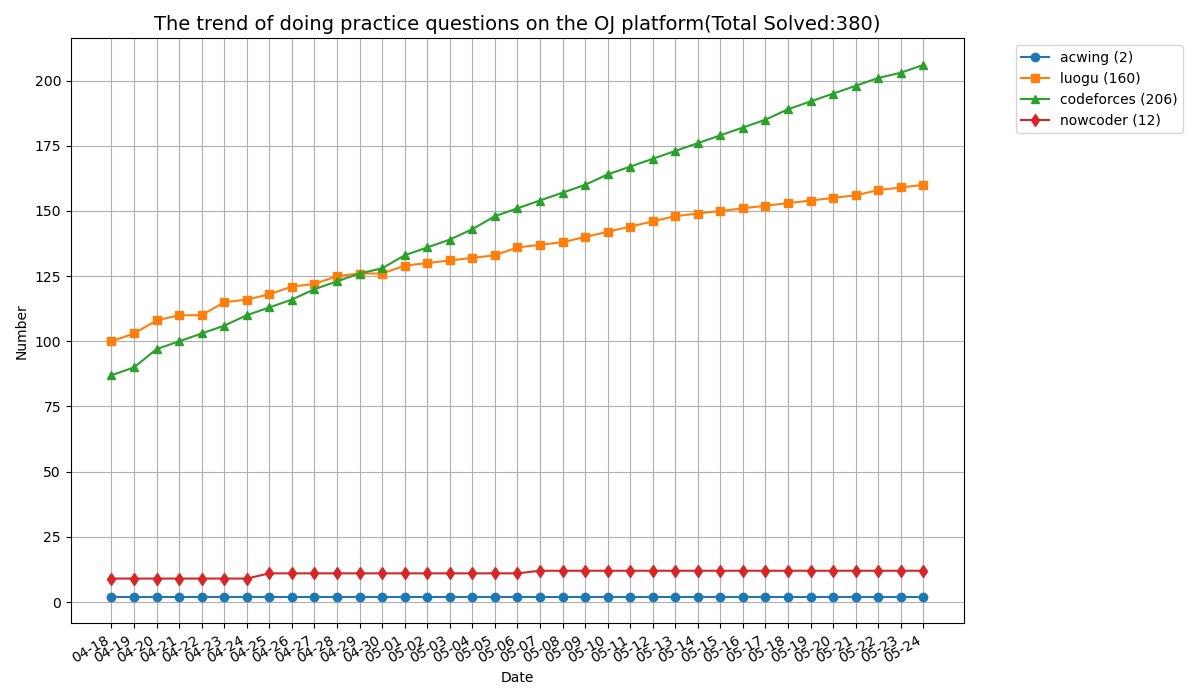
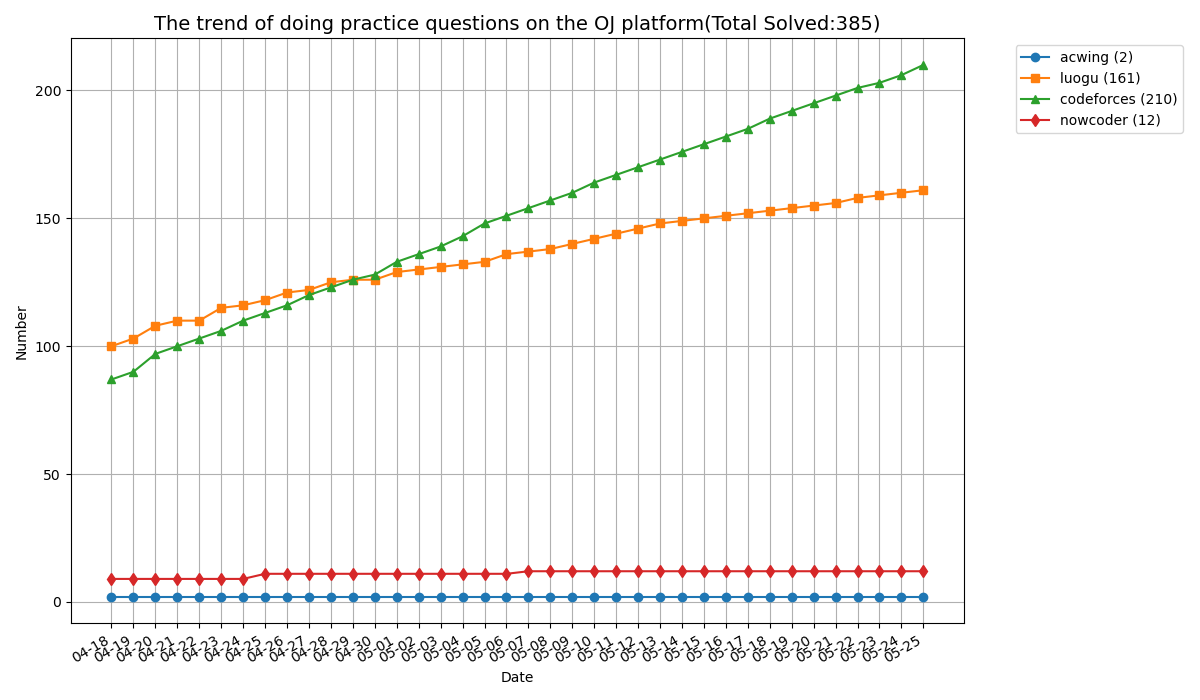
update

diff --git a/codeforces/1931C/main.cpp b/codeforces/1931C/main.cpp
@@ -1,0 +1,79 @@
+#include <bits/stdc++.h>
+using namespace std;
+
+#define ALL(x) (x).begin(), (x).end()
+#define MAXV(a, l, r) *std::max_element((a).begin() + (l), (a).begin() + (r))
+#define MINV(a, l, r) *std::min_element((a).begin() + (l), (a).begin() + (r))
+
+using ll = long long int;
+using ull = unsigned long long int;
+using PII = pair<int, int>;
+
+#define DEBUG
+
+#ifdef DEBUG
+template <typename Container>
+void PrintCon(const Container &cont)
+{
+    std::cout << "{ ";
+    if (!cont.empty())
+    {
+        auto it = cont.begin();
+        std::cout << "\033[33m" << *it++ << "\033[0m";
+        for (; it != cont.end(); ++it)
+            std::cout << " | " << "\033[33m" << *it << "\033[0m";
+    }
+    std::cout << " }" << std::endl;
+}
+
+template <typename... Args>
+void LOG(Args &&...values)
+{
+    ((std::cout << "\033[33m" << std::forward<Args>(values) << "\033[0m" << " "), ...);
+    std::cout << std::endl;
+}
+#else
+template <typename... Args>
+void LOG(Args &...args);
+
+template <typename Container>
+void PrintCon(const Container &cont);
+#endif
+
+void solve()
+{
+    ll n, ans = numeric_limits<ll>::max();
+    cin >> n;
+    vector<ll> a(n + 1);
+    for (int i = 1; i <= n; i++)
+        cin >> a[i];
+
+    ll l = 1, r = n;
+
+    while (l + 1 <= n && a[l + 1] == a[l])
+        l++;
+    while (r - 1 >= 1 && a[r - 1] == a[r])
+        r--;
+
+    if (a[1] == a[n])
+    {
+        ans = min(ans, max(r - l - 1, (long long)0));
+    }
+    ans = min(min(n - l, r - 1), ans);
+
+    cout << max((long long)0, ans) << endl;
+}
+
+int main()
+{
+    ios::sync_with_stdio(false);
+    cin.tie(nullptr);
+    int t;
+    cin >> t;
+    while (t--)
+    {
+        solve();
+    }
+
+    return 0;
+}

diff --git a/codeforces/2104D/main.cpp b/codeforces/2104D/main.cpp
@@ -1,0 +1,79 @@
+#include <bits/stdc++.h>
+using namespace std;
+
+#define ALL(x) (x).begin(), (x).end()
+#define MAXV(a, l, r) *std::max_element((a).begin() + (l), (a).begin() + (r))
+#define MINV(a, l, r) *std::min_element((a).begin() + (l), (a).begin() + (r))
+
+using ll = long long int;
+using ull = unsigned long long int;
+using PII = pair<int, int>;
+
+#define DEBUG
+
+#ifdef DEBUG
+template <typename Container>
+void PrintCon(const Container &cont)
+{
+    std::cout << "{ ";
+    if (!cont.empty())
+    {
+        auto it = cont.begin();
+        std::cout << "\033[33m" << *it++ << "\033[0m";
+        for (; it != cont.end(); ++it)
+            std::cout << " | " << "\033[33m" << *it << "\033[0m";
+    }
+    std::cout << " }" << std::endl;
+}
+
+template <typename... Args>
+void LOG(Args &&...values)
+{
+    ((std::cout << "\033[33m" << std::forward<Args>(values) << "\033[0m" << " "), ...);
+    std::cout << std::endl;
+}
+#else
+template <typename... Args>
+void LOG(Args &...args);
+
+template <typename Container>
+void PrintCon(const Container &cont);
+#endif
+
+void solve()
+{
+    ll n, ans = numeric_limits<ll>::max();
+    cin >> n;
+    vector<ll> a(n + 1);
+    for (int i = 1; i <= n; i++)
+        cin >> a[i];
+
+    ll l = 1, r = n;
+
+    while (l + 1 <= n && a[l + 1] == a[l])
+        l++;
+    while (r - 1 >= 1 && a[r - 1] == a[r])
+        r--;
+
+    if (a[1] == a[n])
+    {
+        ans = min(ans, max(r - l - 1, (long long)0));
+    }
+    ans = min(min(n - l, r - 1), ans);
+
+    cout << max((long long)0, ans) << endl;
+}
+
+int main()
+{
+    ios::sync_with_stdio(false);
+    cin.tie(nullptr);
+    int t;
+    cin >> t;
+    while (t--)
+    {
+        solve();
+    }
+
+    return 0;
+}

diff --git a/codeforces/499B/main.cpp b/codeforces/499B/main.cpp
@@ -1,0 +1,69 @@
+#include <bits/stdc++.h>
+using namespace std;
+
+#define ALL(x) (x).begin(), (x).end()
+#define MAXV(a, l, r) *std::max_element((a).begin() + (l), (a).begin() + (r))
+#define MINV(a, l, r) *std::min_element((a).begin() + (l), (a).begin() + (r))
+
+using ll = long long int;
+using ull = unsigned long long int;
+using PII = pair<int, int>;
+
+#define DEBUG
+#ifdef DEBUG
+template <typename Container>
+void PrintCon(const Container &cont)
+{
+    std::cout << "{ ";
+    if (!cont.empty())
+    {
+        auto it = cont.begin();
+        std::cout << "\033[33m" << *it++ << "\033[0m";
+        for (; it != cont.end(); ++it)
+            std::cout << " | " << "\033[33m" << *it << "\033[0m";
+    }
+    std::cout << " }" << std::endl;
+}
+
+template <typename... Args>
+void LOG(Args &&...values)
+{
+    ((std::cout << "\033[33m" << std::forward<Args>(values) << "\033[0m" << " "), ...);
+    std::cout << std::endl;
+}
+
+#else
+
+template <typename... Args>
+void LOG(Args &...args);
+template <typename Container>
+void PrintCon(const Container &cont);
+
+#endif
+
+int main()
+{
+    ios::sync_with_stdio(false);
+    cin.tie(nullptr);
+
+    map<string, string> ma; 
+    int n, m;               
+    cin >> n >> m;          
+    for (int i = 1; i <= m; i++)
+    {
+        string a, b;
+        cin >> a >> b; 
+        ma[a] = b;    
+        ma[b] = a;
+    }
+    for (int i = 1; i <= n; i++)
+    {
+        string a;
+        cin >> a; 
+        if (ma[a].size() < a.size())
+            cout << ma[a] << " "; 
+        else
+            cout << a << " "; 
+    }
+    return 0;
+}

diff --git a/codeforces/43A/main.cpp b/codeforces/43A/main.cpp
@@ -1,0 +1,71 @@
+#include <bits/stdc++.h>
+using namespace std;
+
+#define ALL(x) (x).begin(), (x).end()
+#define MAXV(a, l, r) *std::max_element((a).begin() + (l), (a).begin() + (r))
+#define MINV(a, l, r) *std::min_element((a).begin() + (l), (a).begin() + (r))
+
+using ll = long long int;
+using ull = unsigned long long int;
+using PII = pair<int, int>;
+
+#define DEBUG
+#ifdef DEBUG
+template <typename Container>
+void PrintCon(const Container &cont)
+{
+  std::cout << "{ ";
+  if (!cont.empty())
+  {
+    auto it = cont.begin();
+    std::cout << "\033[33m" << *it++ << "\033[0m";
+    for (; it != cont.end(); ++it)
+      std::cout << " | " << "\033[33m" << *it << "\033[0m";
+  }
+  std::cout << " }" << std::endl;
+}
+
+template <typename... Args>
+void LOG(Args &&...values)
+{
+  ((std::cout << "\033[33m" << std::forward<Args>(values) << "\033[0m" << " "), ...);
+  std::cout << std::endl;
+}
+
+#else
+
+template <typename... Args>
+void LOG(Args &...args);
+template <typename Container>
+void PrintCon(const Container &cont);
+
+#endif
+
+int main()
+{
+  ios::sync_with_stdio(false);
+  cin.tie(nullptr);
+  int n, a1 = 0, a2 = 0;
+  string a, b, s;
+  cin >> n;
+  cin >> s; 
+  a = s;    
+  a1++;     
+  for (int i = 2; i <= n; i++)
+  {
+    cin >> s;
+    if (s == a)
+      a1++; 
+    else
+    {
+      a2++;
+      b = s;
+    } 
+  }
+  if (a1 > a2)
+    cout << a; 
+  else
+    cout << b;
+
+  return 0;
+}
